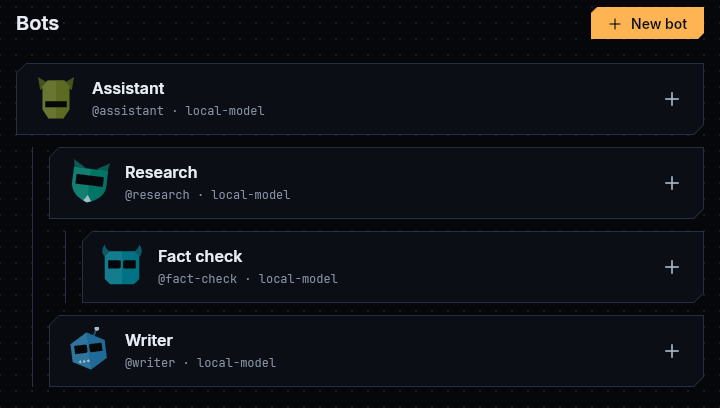
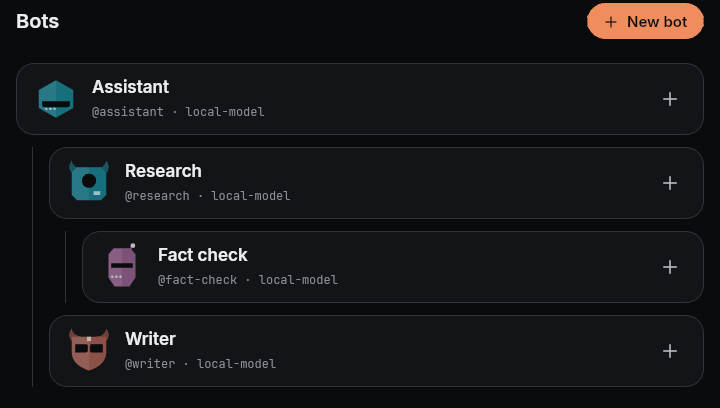
fix: saved theme choices load in the browser build, and the crew footer never overlaps
The stored choice was read and written by reflection, which the trimmed
browser build cannot do, so a saved choice stopped the app before its first
screen. It is now read and written by hand. The crew column's account button
shared a column with the last link and covered it in Front Office; it now
has its own column and drops to its own row when the row does not fit.

README pictures retaken in Front Office from a local server.

Claude-Session: https://claude.ai/code/session_013ezonurxL6jJhc9DwTrrx2

diff --git a/src/Drover.Presentation/Theme/ThemeChoice.cs b/src/Drover.Presentation/Theme/ThemeChoice.cs
@@ -12,9 +12,14 @@ public sealed record ThemeChoice(string ThemeId, ThemeMode Mode, string Accent =
     // The version of the stored object from which the theme it names is one a person chose.
     private const int ChosenTheme = 2;
 
-    // The names are read as they are written, in the one casing, as the page that paints before the app reads them.
-    private static readonly JsonSerializerOptions stored =
-        new(JsonSerializerDefaults.Web) { PropertyNameCaseInsensitive = false };
+    private const string ThemeIdName = "themeId";
+
+    private const string ModeName = "mode";
+
+    private const string AccentName = "accent";
+
+    private const string VersionName = "version";
+
 
     // A mode is one of these words. A number or a list of words is not one, whatever an enum would make of it.
     private static readonly Dictionary<string, ThemeMode> modes = new(StringComparer.OrdinalIgnoreCase)
@@ -55,9 +60,23 @@ public sealed record ThemeChoice(string ThemeId, ThemeMode Mode, string Accent =
         return ReadObject(value, logger) ?? Default;
     }
 
-    public string ToStored() => JsonSerializer.Serialize(
-        new StoredChoice(ThemeId, Mode.ToString().ToLowerInvariant(), Accent, ChosenTheme),
-        stored);
+    // Written and read by hand, not by reflection: the browser build trims what a serializer would need to make a
+    // record, and a choice it could not read would stop the app before its first screen.
+    public string ToStored()
+    {
+        using var buffer = new MemoryStream();
+        using (var writer = new Utf8JsonWriter(buffer))
+        {
+            writer.WriteStartObject();
+            writer.WriteString(ThemeIdName, ThemeId);
+            writer.WriteString(ModeName, Mode.ToString().ToLowerInvariant());
+            writer.WriteString(AccentName, Accent);
+            writer.WriteNumber(VersionName, ChosenTheme);
+            writer.WriteEndObject();
+        }
+
+        return Encoding.UTF8.GetString(buffer.ToArray());
+    }
 
     #endregion
 
@@ -67,16 +86,21 @@ public sealed record ThemeChoice(string ThemeId, ThemeMode Mode, string Accent =
     {
         try
         {
-            var read = JsonSerializer.Deserialize<StoredChoice>(value, stored);
-
-            if (read is not { ThemeId.Length: > 0, Mode: not null } || !modes.TryGetValue(read.Mode, out var mode))
+            using var document = JsonDocument.Parse(value);
+            var root = document.RootElement;
+            if (root.ValueKind is not JsonValueKind.Object
+                || Text(root, ThemeIdName) is not { Length: > 0 } themeId
+                || Text(root, ModeName) is not { } word
+                || !modes.TryGetValue(word, out var mode)
+                || !TryAccent(root, out var accent)
+                || !TryVersion(root, out var version))
             {
                 return null;
             }
 
             // Before a person could choose a theme, the object named the one theme there was. That was no choice.
-            return read.Version >= ChosenTheme
-                ? new(read.ThemeId, mode, read.Accent is { Length: > 0 } accent ? accent : Accents.ThemeId)
+            return version >= ChosenTheme
+                ? new(themeId, mode, accent is { Length: > 0 } ? accent : Accents.ThemeId)
                 : Default with { Mode = mode };
         }
         catch (JsonException exception)
@@ -87,7 +111,29 @@ public sealed record ThemeChoice(string ThemeId, ThemeMode Mode, string Accent =
         }
     }
 
-    private sealed record StoredChoice(string ThemeId, string? Mode, string? Accent = null, int Version = 0);
+    // A name is read as it is written, in the one casing, as the page that paints before the app reads it.
+    private static string? Text(JsonElement root, string name) =>
+        root.TryGetProperty(name, out var found) && found.ValueKind is JsonValueKind.String ? found.GetString() : null;
+
+    private static bool TryAccent(JsonElement root, out string? accent)
+    {
+        accent = null;
+        if (!root.TryGetProperty(AccentName, out var found) || found.ValueKind is JsonValueKind.Null)
+        {
+            return true;
+        }
+
+        accent = found.ValueKind is JsonValueKind.String ? found.GetString() : null;
+        return found.ValueKind is JsonValueKind.String;
+    }
+
+    private static bool TryVersion(JsonElement root, out int version)
+    {
+        version = 0;
+
+        return !root.TryGetProperty(VersionName, out var found)
+            || (found.ValueKind is JsonValueKind.Number && found.TryGetInt32(out version) && found.GetRawText() == $"{version}");
+    }
 
     #endregion
 }

diff --git a/src/Drover.Native/Chat/TalkWorkspace.cs b/src/Drover.Native/Chat/TalkWorkspace.cs
@@ -207,9 +207,13 @@ internal sealed class TalkWorkspace : Grid
         AutomationProperties.SetName(crewScroll, "Crew");
         AutomationProperties.SetLandmarkType(crewScroll, AutomationLandmarkType.Navigation);
 
+        // The links stand on their own columns and the account on the last, so the two can never overlap.
         var footer = new Grid { ColumnSpacing = Tokens.Number("DvSpace3") };
-        footer.ColumnDefinitions.Add(new() { Width = GridLength.Auto });
-        footer.ColumnDefinitions.Add(new() { Width = GridLength.Auto });
+        foreach (var _ in footerLinks)
+        {
+            footer.ColumnDefinitions.Add(new() { Width = GridLength.Auto });
+        }
+
         footer.ColumnDefinitions.Add(new() { Width = new(1, GridUnitType.Star) });
         footer.RowDefinitions.Add(new() { Height = GridLength.Auto });
         footer.RowDefinitions.Add(new() { Height = GridLength.Auto });
@@ -221,7 +225,7 @@ internal sealed class TalkWorkspace : Grid
             footer.Children.Add(link);
         }
 
-        SetColumn(crewAccount, 2);
+        SetColumn(crewAccount, footerLinks.Length);
         footer.Children.Add(crewAccount);
         listFooter.Child = footer;
         listFooter.Padding = Tokens.Space("DvSpace4", "DvSpace3");
@@ -745,16 +749,34 @@ internal sealed class TalkWorkspace : Grid
         railDividerColumn.Width = new(splitRail ? dividerWidth : 0);
         railColumn.Width = !showRail ? new(0) : splitRail ? new(railWidth) : star;
 
-        var compactCrew = splitCrew && listWidth < listDefault;
+        // The account takes a row of its own under the links when the column is narrower than its default, or when
+        // the links and the account do not fit on one row in the theme in use.
+        var compactCrew = splitCrew && (listWidth < listDefault || !FooterFitsOneRow(listWidth));
         SetRow(crewAccount, compactCrew ? 1 : 0);
-        SetColumn(crewAccount, compactCrew ? 0 : 2);
-        SetColumnSpan(crewAccount, compactCrew ? 3 : 1);
+        SetColumn(crewAccount, compactCrew ? 0 : footerLinks.Length);
+        SetColumnSpan(crewAccount, compactCrew ? footerLinks.Length + 1 : 1);
         listFooter.Visibility = Shown(!phone);
         dock.Visibility = Shown(phone);
         back.Visibility = Shown(!crewBeside);
         crewNotice.Visibility = Shown(!crewBeside);
         var inline = Tokens.Number(phone ? "DvSpace2" : "DvSpace4");
         mainHeader.Padding = new(inline, Tokens.Number("DvSpace2"), inline, Tokens.Number("DvSpace2"));
+    }
+
+    private bool FooterFitsOneRow(double listWidth)
+    {
+        var gap = Tokens.Number("DvSpace3");
+        var room = listWidth - listFooter.Padding.Left - listFooter.Padding.Right;
+        FrameworkElement[] parts = [.. footerLinks, crewAccount];
+        var needed = parts.Sum(Wanted) + (gap * (parts.Length - 1));
+
+        return needed <= room;
+    }
+
+    private static double Wanted(FrameworkElement part)
+    {
+        part.Measure(new(double.PositiveInfinity, double.PositiveInfinity));
+        return part.DesiredSize.Width;
     }
 
     private void ResizeCrew(double width)

diff --git a/README.md b/README.md
@@ -55,7 +55,7 @@ Each bot gets a character drawn from a set of parts (head, visor, top, mark, til
 
 ### Conversations
 
-Replies stream in, and each tool call shows its arguments, output, and result as it happens. You can edit an earlier message, regenerate a reply, open a side chat next to the main one, and read a running summary. One bot turn now reads as one unit with a compact ledger of its work. Each piece of work is one row that opens to the call when a person wants the detail. A theme sets the colors, type, density, shape and motion they are drawn in, including the corners, the yard, the live states and the characters. Every theme is checked when the app builds for contrast, hues, bounds, touch targets and ink. Code, tables, differences, logs and bytes in a message are drawn from what they hold. Lines can wrap, and a block can open full screen. Past 400 lines or 64 KiB a block shows the start until you ask for the rest.
+Replies stream in, and each tool call shows its arguments, output, and result as it happens. You can edit an earlier message, regenerate a reply, open a side chat next to the main one, and read a running summary. One bot turn now reads as one unit with a compact ledger of its work. Each piece of work is one row that opens to the call when a person wants the detail. A theme sets the colors, type, density, shape and motion they are drawn in, including the corners, the yard, the live states and the characters. The default, Front Office, is neutral and round, with both sides of a conversation in bubbles; Night Yard, the first look, is still one choice away. Each comes in dark, light and black, and a person can turn their own accent color. Every theme is checked when the app builds for contrast, hues, bounds, touch targets and ink. Code, tables, differences, logs and bytes in a message are drawn from what they hold. Lines can wrap, and a block can open full screen. Past 400 lines or 64 KiB a block shows the start until you ask for the rest.
 
 Search covers your conversations, and you can save one as Markdown or JSON. Attach files and pictures; Drover reads PDF and office documents as text for the model. Large pictures get a static preview of at most 480 pixels on the long edge, and Download still gives the original. You can paste a picture or drop files anywhere on a conversation; a refusal says why in one sentence. The first 100 files are taken, and a pasted picture is bounded to 64 MiB and 32 million pixels. Projects group conversations around shared files. If you set up a second domain for previews, HTML a bot writes opens there, away from your session cookies.
 
